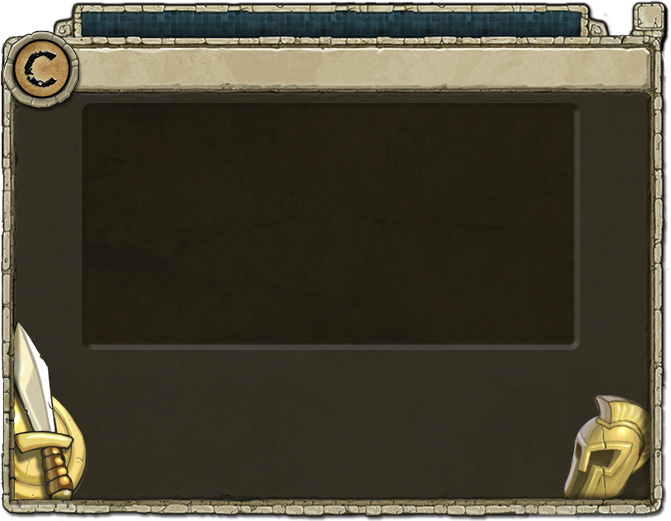
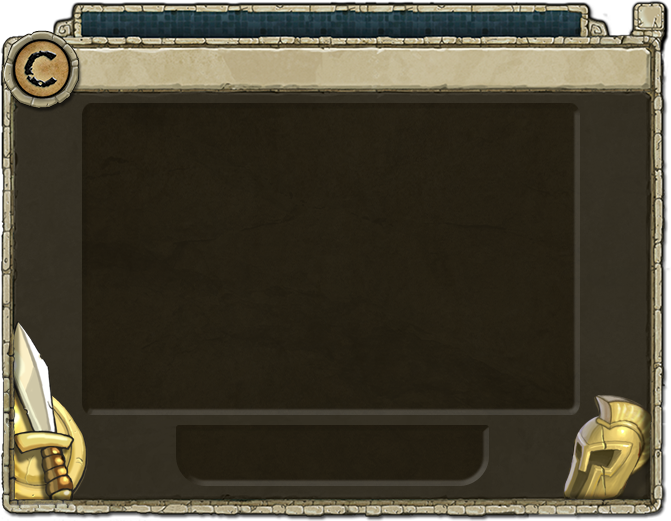
Polish scenario UI, remove launch btn, update help URL

diff --git a/Celeste_Launcher_Gui/Windows/ScenarioManager.xaml b/Celeste_Launcher_Gui/Windows/ScenarioManager.xaml
@@ -22,10 +22,10 @@
         <Grid Width="510" Height="27" VerticalAlignment="Top" Margin="0,11,0,0" MouseDown="OnMoveWindow" Background="Transparent">
             <TextBlock Text="{x:Static p:Resources.ScenarioManagerTitle}" Foreground="White" FontFamily="{StaticResource Ashley-Crawford-CG}" HorizontalAlignment="Center" VerticalAlignment="Center" FontSize="18"/>
         </Grid>
-        <ListView Width="490" Height="240" HorizontalAlignment="Left" VerticalAlignment="Top" Margin="85,105,0,0" x:Name="ScenarioListView">
+        <ListView Width="490" Height="300" HorizontalAlignment="Left" VerticalAlignment="Top" Margin="85,105,0,0" x:Name="ScenarioListView">
             
         </ListView>
-        <StackPanel HorizontalAlignment="Center" VerticalAlignment="Bottom" Margin="0,0,0,30">
+        <StackPanel HorizontalAlignment="Center" VerticalAlignment="Bottom" Margin="0,0,0,38">
             <StackPanel Orientation="Horizontal">
                 <Button Style="{StaticResource GenericCustomizedButton}" Width="53" Height="55"
                         theme:ButtonThemeProperties.DefaultIcon="pack://application:,,,/Celeste Launcher;component/Resources/Icons/AddScenario-Normal.png"
@@ -57,7 +57,6 @@
                         Margin="2" Click="OnHelpClick"
                         ToolTip="{x:Static p:Resources.ScenarioManagerOpenHelpTooltip}"/>
             </StackPanel>
-            <Button Style="{StaticResource MediumButton}" Content="{x:Static p:Resources.ScenarioManagerPlayScenarioBtn}" FontSize="20" Margin="10" Click="Button_Click" />
         </StackPanel>
     </Grid>
 </Window>

diff --git a/Celeste_Launcher_Gui/Windows/ScenarioManager.xaml.cs b/Celeste_Launcher_Gui/Windows/ScenarioManager.xaml.cs
@@ -196,17 +196,12 @@ namespace Celeste_Launcher_Gui.Windows
 
         private void OnHelpClick(object sender, RoutedEventArgs e)
         {
-            Process.Start("https://forums.projectceleste.com/wiki/offline-mode/");
+            Process.Start("https://forums.projectceleste.com/threads/offline-mode-2-0.3988/");
         }
 
         private void Window_Closing(object sender, System.ComponentModel.CancelEventArgs e)
         {
             _folderListener.Dispose();
-        }
-
-        private async void Button_Click(object sender, RoutedEventArgs e)
-        {
-            await GameService.StartGame(true);
         }
     }
 }
